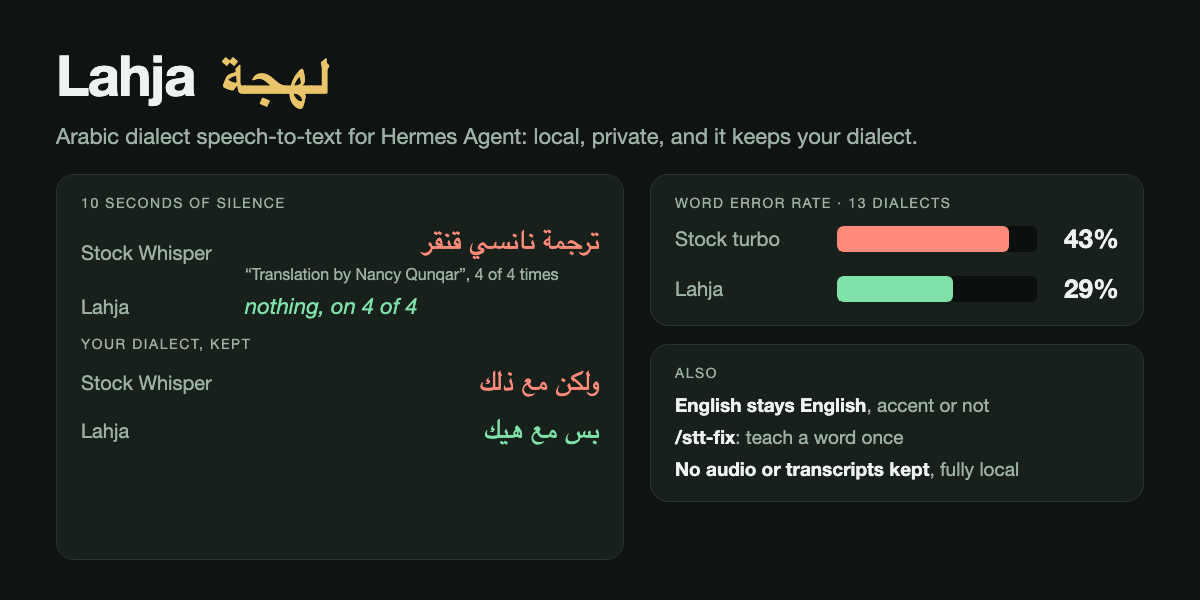
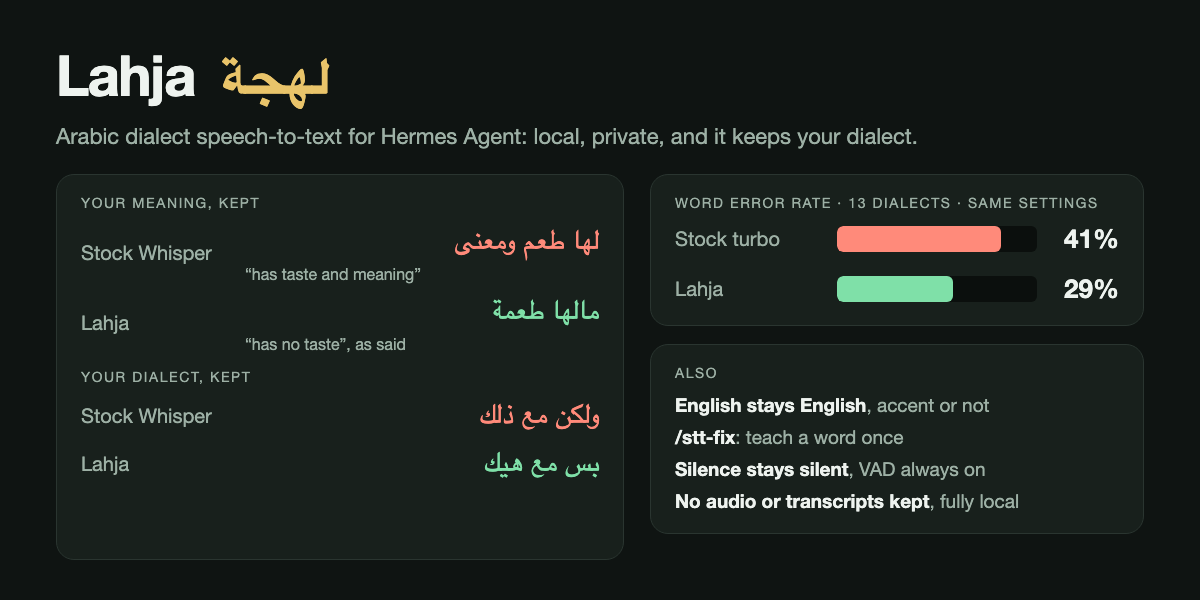
Benchmark stock Whisper with the same VAD; lead with dialect and meaning
Stock large-v3-turbo with Lahja's Silero VAD scores WER 0.411 (0.429
without VAD) vs 0.291 for Lahja, and VAD alone also stops the «ترجمة
نانسي قنقر» hallucination. README, banner and bench now compare like
for like and no longer present silence handling as unique to Lahja.

diff --git a/docs/banner.html b/docs/banner.html
@@ -46,14 +46,14 @@
   </header>
   <div class="grid">
     <div class="card">
-      <div class="label">10 seconds of silence</div>
+      <div class="label">Your meaning, kept</div>
       <div class="row">
         <div class="who">Stock Whisper</div>
-        <div><div class="out bad ar">ترجمة نانسي قنقر</div><div class="gloss">“Translation by Nancy Qunqar”, 4 of 4 times</div></div>
+        <div><div class="out bad ar">لها طعم ومعنى</div><div class="gloss">“has taste and meaning”</div></div>
       </div>
       <div class="row">
         <div class="who">Lahja</div>
-        <div><div class="out good">nothing, on 4 of 4</div></div>
+        <div><div class="out ar" style="color:var(--good)">مالها طعمة</div><div class="gloss">“has no taste”, as said</div></div>
       </div>
       <div class="label" style="margin-top:16px">Your dialect, kept</div>
       <div class="row">
@@ -67,9 +67,9 @@
     </div>
     <div class="stack">
       <div class="card">
-        <div class="label">Word error rate · 13 dialects</div>
+        <div class="label">Word error rate · 13 dialects · same settings</div>
         <div class="bars">
-          <div class="bar"><div class="who">Stock turbo</div><div class="track"><div class="fill" style="width:85.8%;background:var(--bad)"></div></div><div class="num">43%</div></div>
+          <div class="bar"><div class="who">Stock turbo</div><div class="track"><div class="fill" style="width:82.2%;background:var(--bad)"></div></div><div class="num">41%</div></div>
           <div class="bar"><div class="who">Lahja</div><div class="track"><div class="fill" style="width:58.2%;background:var(--good)"></div></div><div class="num">29%</div></div>
         </div>
       </div>
@@ -78,6 +78,7 @@
         <div class="foot" style="flex-direction:column;gap:8px">
           <div><b>English stays English</b>, accent or not</div>
           <div><b>/stt-fix</b>: teach a word once</div>
+          <div><b>Silence stays silent</b>, VAD always on</div>
           <div><b>No audio or transcripts kept</b>, fully local</div>
         </div>
       </div>

diff --git a/bench/run_bench.py b/bench/run_bench.py
@@ -7,8 +7,9 @@ Needs whisper-cli and ffmpeg on PATH. Downloads the 13 held-out dialect clips pu
 card (oddadmix/whisper-large-v3-turbo-arabic-dialectal-v2, pinned revision) into bench/audio/,
 generates 4 non-speech clips (digital silence, pink/brown/white noise) with ffmpeg, and prints:
 
-  1. word error rate per dialect, stock Whisper vs the dialect model (with Lahja's VAD)
-  2. what each model writes for audio that contains no speech
+  1. word error rate per dialect: stock Whisper with the same Silero VAD Lahja uses ("stock"),
+     stock without VAD ("stock_raw", whisper.cpp's default), and Lahja
+  2. what each writes for audio that contains no speech
   3. decoding speed
 """
 
@@ -68,7 +69,7 @@ def main() -> None:
             subprocess.run(["ffmpeg", "-v", "error", "-y", "-f", "lavfi", "-i", src, "-t", "10", str(dst)],
                            check=True)
 
-    systems = {"stock": (a.stock, None), "lahja": (a.dialect, a.vad)}
+    systems = {"stock_raw": (a.stock, None), "stock": (a.stock, a.vad), "lahja": (a.dialect, a.vad)}
     res: dict = {"wer": {}, "per_dialect": {}, "non_speech": {}, "seconds": {}}
     audio_seconds = 0.0
     for sysname, (model, vad) in systems.items():
@@ -94,17 +95,18 @@ def main() -> None:
 
     a.json.parent.mkdir(exist_ok=True)
     a.json.write_text(json.dumps(res, ensure_ascii=False, indent=2), encoding="utf-8")
-    print(f"WER (13 dialects, {res['audio_seconds']}s of audio): "
-          f"stock {res['wer']['stock']:.1%}  lahja {res['wer']['lahja']:.1%}")
-    print("dialect  stock  lahja")
+    print(f"WER (13 dialects, {res['audio_seconds']}s of audio): stock without VAD {res['wer']['stock_raw']:.1%}, "
+          f"stock with VAD {res['wer']['stock']:.1%}, lahja {res['wer']['lahja']:.1%}")
+    print("dialect  stock_raw  stock  lahja")
     for _, d, _ in refs:
-        print(f"{d:7s} {res['per_dialect']['stock'][d]:6.2f} {res['per_dialect']['lahja'][d]:6.2f}")
+        print(f"{d:7s} {res['per_dialect']['stock_raw'][d]:9.2f} {res['per_dialect']['stock'][d]:6.2f} "
+              f"{res['per_dialect']['lahja'][d]:6.2f}")
     print("non-speech audio:")
     for n in NOISE:
-        print(f"  {n:12s} stock: {res['non_speech']['stock'][n] or '(empty)'!s:24s} "
-              f"lahja: {res['non_speech']['lahja'][n] or '(empty)'}")
-    print(f"decode time for all 13 clips (incl. model load per clip): "
-          f"stock {res['seconds']['stock']}s, lahja {res['seconds']['lahja']}s")
+        row = "  ".join(f"{k}: {res['non_speech'][k][n] or '(empty)'}" for k in systems)
+        print(f"  {n:12s} {row}")
+    print("decode time for all 13 clips (incl. model load per clip): "
+          + ", ".join(f"{k} {res['seconds'][k]}s" for k in systems))
 
 
 if __name__ == "__main__":

diff --git a/README.md b/README.md
@@ -1,10 +1,9 @@
 # Lahja (لهجة) — Arabic dialect speech-to-text for Hermes
 
-![Lahja: stock Whisper writes «ترجمة نانسي قنقر» on silence and rewrites dialect as formal Arabic; Lahja returns nothing on silence, keeps the dialect, and cuts word errors from 43% to 29% across 13 dialects](docs/banner.png)
+![Lahja keeps your dialect («بس مع هيك», not «ولكن مع ذلك») and your meaning, and cuts word errors from 41% to 29% across 13 Arabic dialects versus stock Whisper with the same settings](docs/banner.png)
 
 Send Hermes a voice note in Levantine, Gulf, Egyptian, Iraqi or Maghrebi Arabic and get back **what you
-actually said**: in your dialect, not rewritten as formal Arabic, not translated, and never the
-Whisper classic «ترجمة نانسي قنقر» ("Translation by Nancy Qunqar") when the audio is silent.
+actually said**: in your dialect, not rewritten as formal Arabic, and not translated.
 
 Fully local. No API keys. Stores no audio and no transcripts.
 
@@ -21,18 +20,22 @@ Stock Whisper is weak on spoken Arabic, and it fails in ways an assistant cannot
 
 | Problem | Stock Whisper | Lahja |
 |---|---|---|
-| **Silence / noise** (a pocket recording, a pause) | «ترجمة نانسي قنقر» on 4 of 4 non-speech clips | empty on 4 of 4 |
 | **Dialect** | rewrites it as formal Arabic: «بس مع هيك» → «ولكن مع ذلك», «ما بعرف» → «لا اعرف» | keeps it |
 | **Meaning** | on a real Levantine voice note, «مالها طعمة» (*has no taste*) became «لها طعم ومعنى» (*has taste and meaning*) | correct |
-| **Word error rate**, 13 dialects | 42.9 % | **29.1 %** |
+| **Word error rate**, 13 dialects, same VAD and settings | 41.1 % | **29.1 %** |
 | **English said with an Arabic accent** | often detected as Arabic and *translated* into Arabic | caught and transcribed as English |
+| **Silence / noise** | without voice detection: «ترجمة نانسي قنقر» ("Translation by Nancy Qunqar") on 4 of 4 non-speech clips | VAD on by default, plus a filter for subtitle credits that slip through: empty on 4 of 4 |
+
+The dialect and meaning examples come from stock large-v3 (language `auto`, with VAD) on real
+voice notes. VAD alone also fixes the silence case for stock Whisper, and Hermes' built-in
+faster-whisper provider already uses it; Lahja simply never runs without it.
 
 ### Numbers
 
 `bench/run_bench.py` reproduces everything below with one command. Test audio: the 13 held-out
 clips (one per dialect, 82 s) published on the dialect model's card, scored with diacritics and
-punctuation removed and hamza / alef / ya / ta-marbuta variants folded. Same q5_0 quantization and the same decoding settings
-for both models (whisper.cpp 1.9.4, Apple M4).
+punctuation removed and hamza / alef / ya / ta-marbuta variants folded. Both models: q5_0,
+whisper.cpp 1.9.4, language `ar`, the same Silero VAD, Apple M4.
 
 | Dialect | Stock large-v3-turbo | Lahja |
 |---|---|---|
@@ -40,20 +43,21 @@ for both models (whisper.cpp 1.9.4, Apple M4).
 | Iraqi | 0.26 | **0.05** |
 | Yemeni | 0.56 | **0.11** |
 | Palestinian | 1.00 | **0.40** |
-| Sudanese | 0.50 | **0.25** |
+| Lebanese | 0.33 | **0.17** |
 | Tunisian | 0.42 | **0.25** |
-| Moroccan | 0.79 | **0.50** |
-| Libyan | 0.36 | **0.29** |
-| Lebanese | 0.17 | 0.17 |
+| Libyan | 0.43 | **0.29** |
+| Moroccan | 0.62 | **0.50** |
+| Sudanese | 0.31 | **0.25** |
 | Saudi / Gulf | 0.30 | 0.30 |
 | Bahraini | 0.10 | 0.10 |
 | Syrian | **0.18** | 0.23 |
-| Algerian | **0.60** | 0.87 |
-| **All (word-weighted)** | **0.429** | **0.291** |
+| Algerian | **0.67** | 0.87 |
+| **All (word-weighted)** | **0.411** | **0.291** |
 
-13 clips is a small sample. The model's own card reports WER 0.332 on its 2,600-clip balanced test
-split (Gulf 0.17 … Tunisian 0.54). Speed is the same as stock turbo: a typical 10–40 s voice note
-transcribes in 2–4 s on an M4, and silence returns in under a second.
+Stock without VAD (whisper.cpp's default) scores 0.429. 13 clips is a small sample; the model's own
+card reports WER 0.332 on its 2,600-clip balanced test split (Gulf 0.17 … Tunisian 0.54). Speed is
+the same as stock turbo: a typical 10–40 s voice note transcribes in 2–4 s on an M4, and silence
+returns in under a second.
 
 ## Install
 
